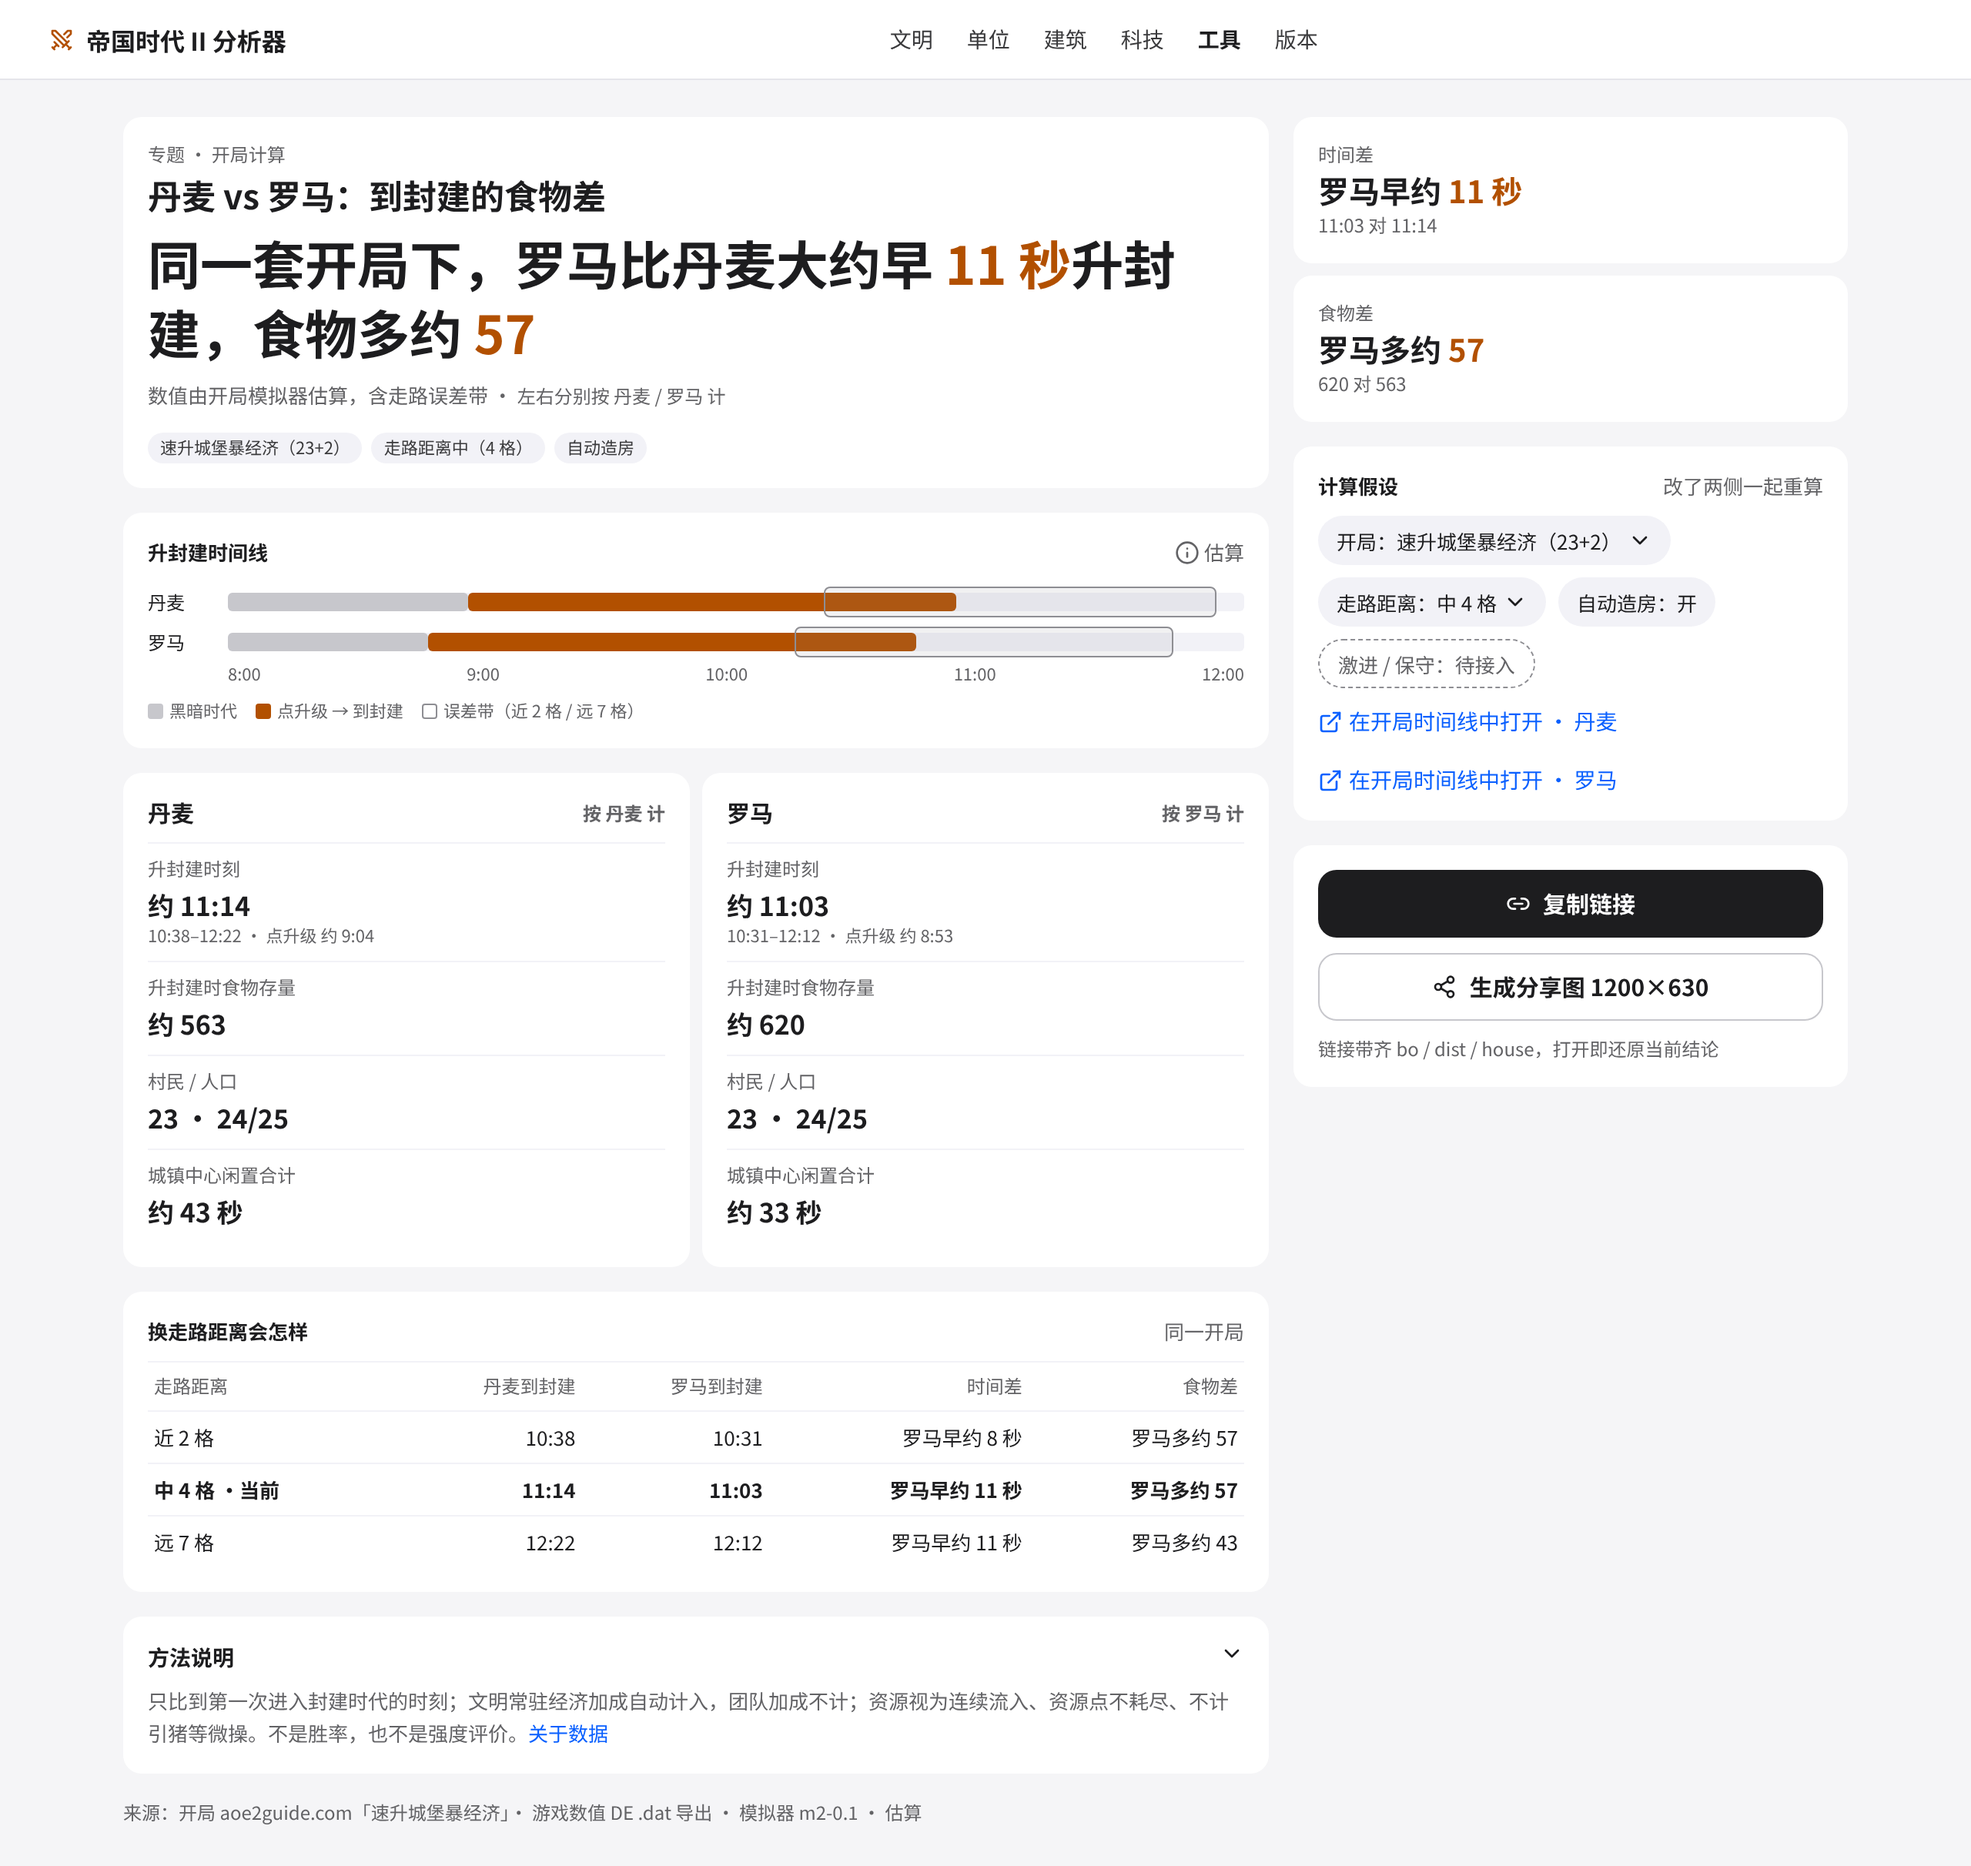
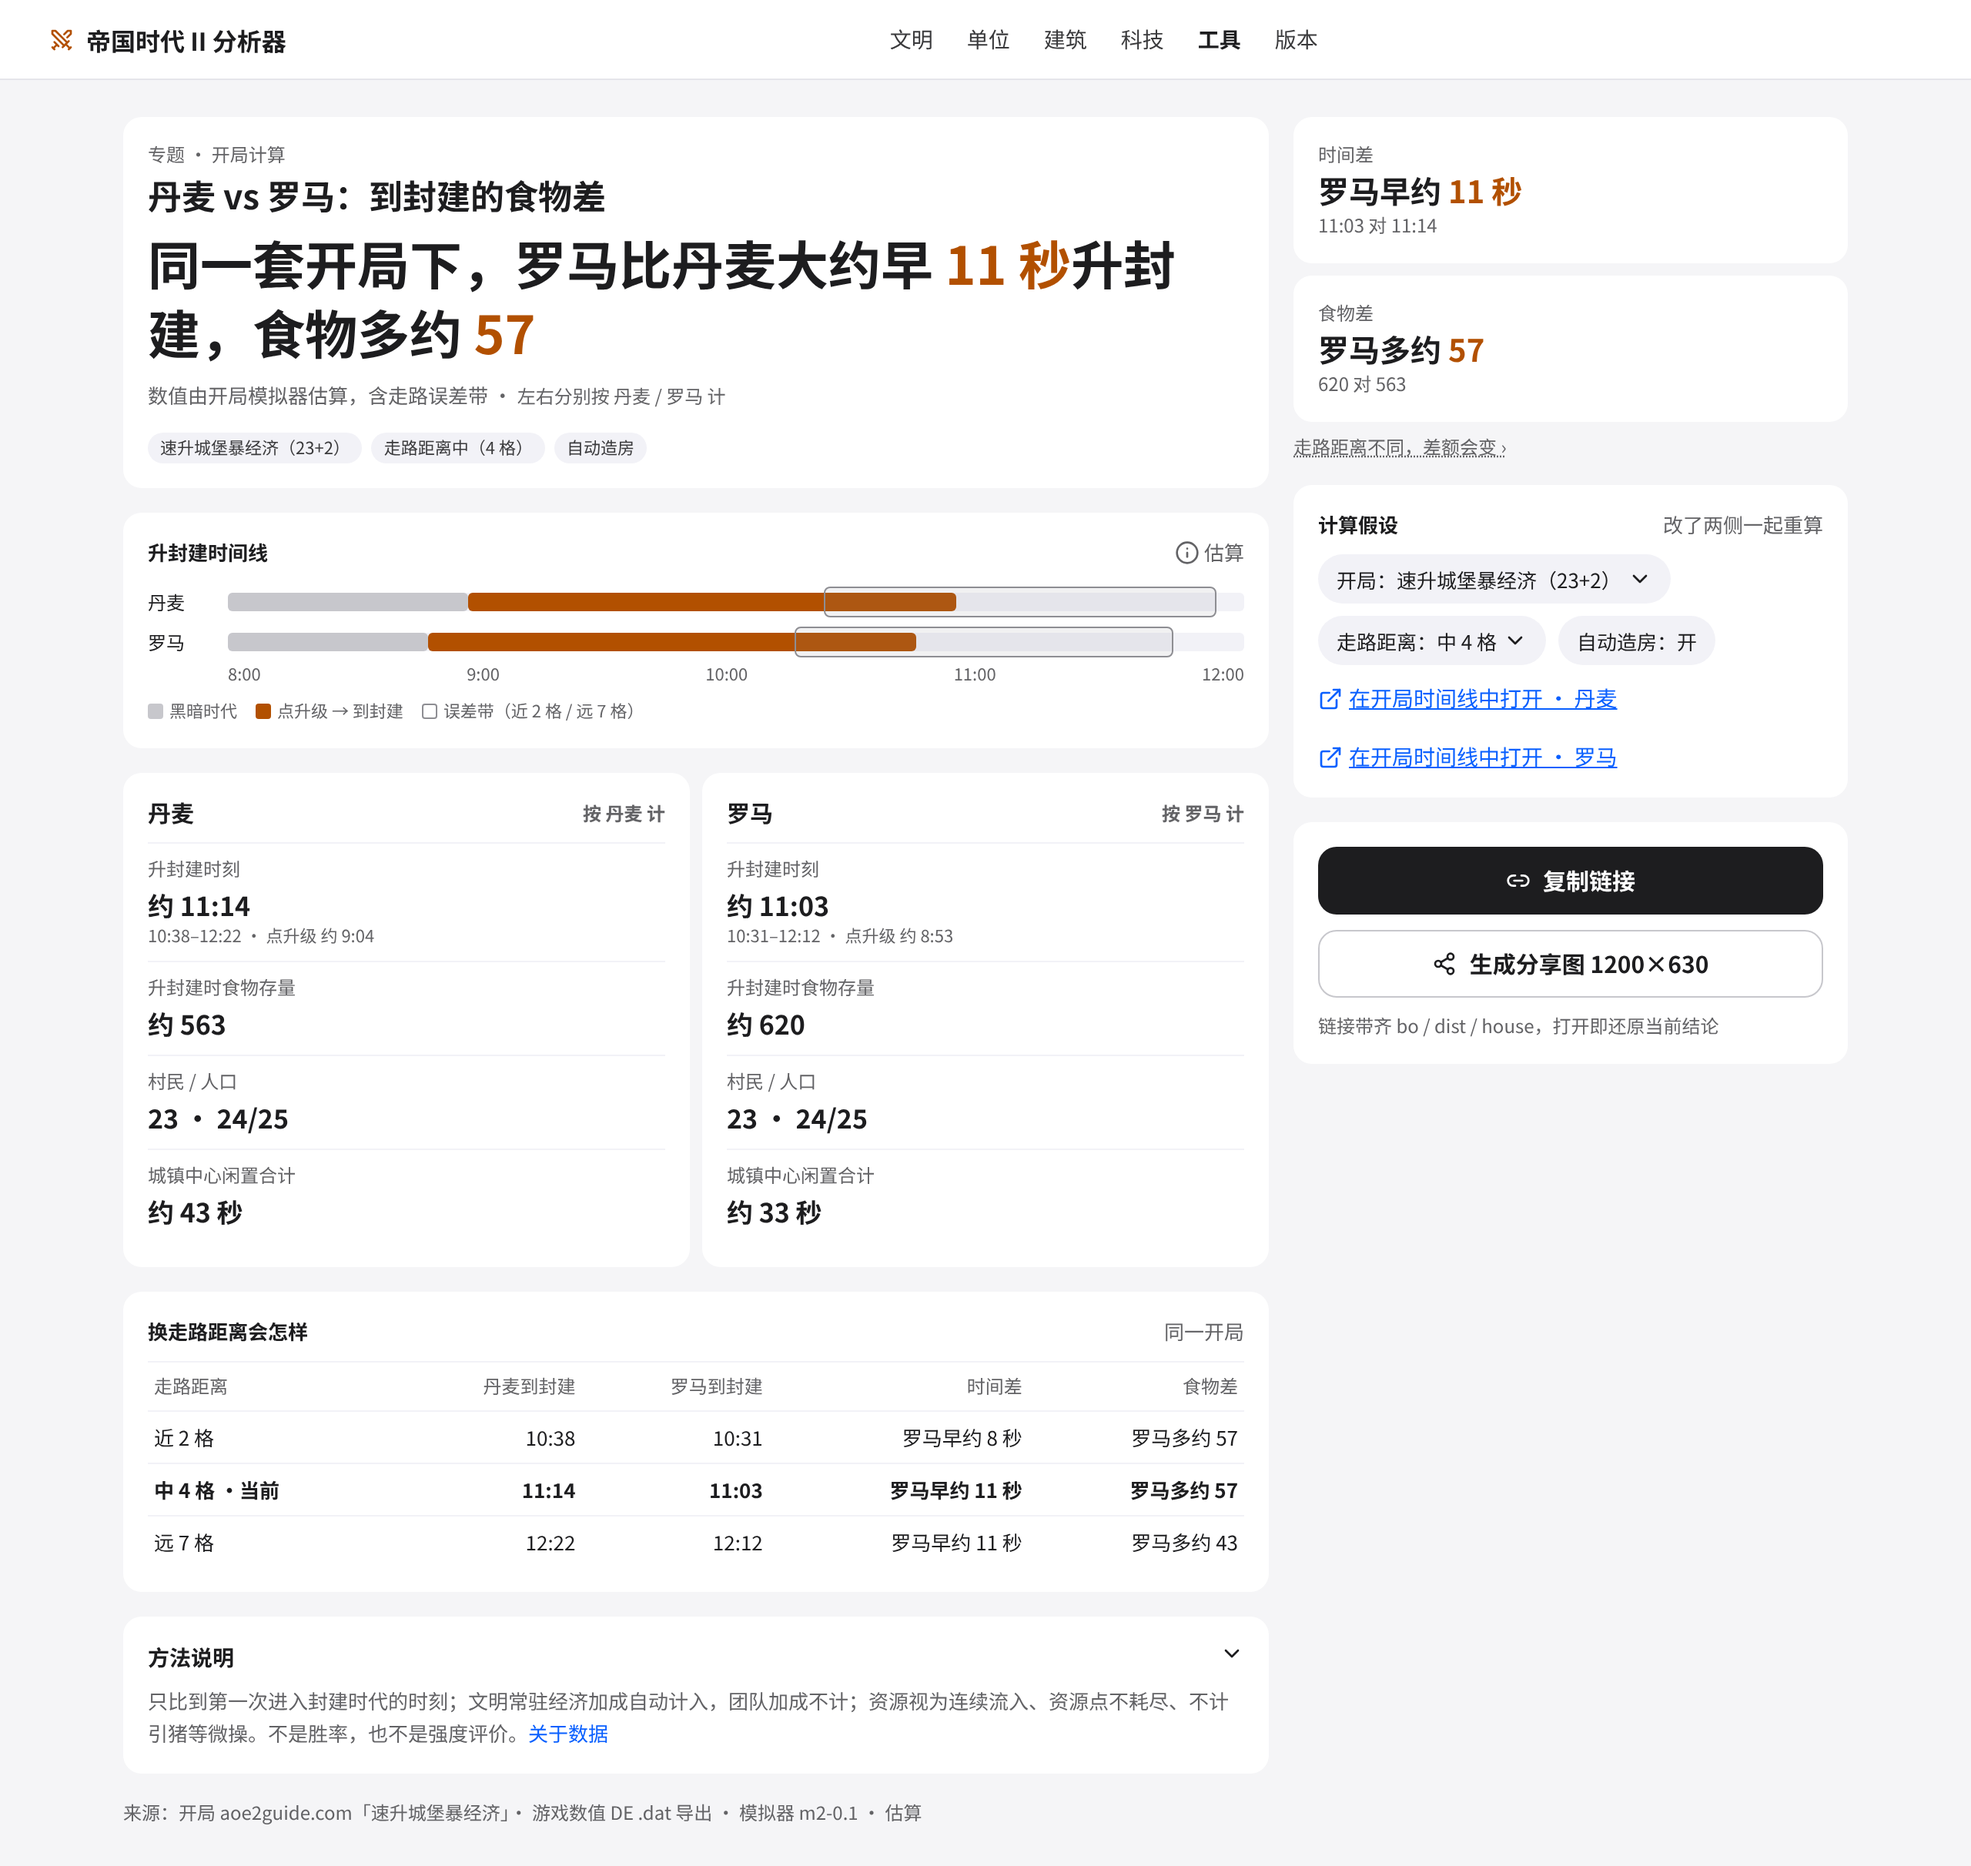
design(#17): v1.1 去激进/保守、差额说明行、时间线真实链接

Changed region(s): [[0.6562, 0.2166, 0.9375, 0.5879], [0.8438, 0.2475, 0.9375, 0.3094]]

diff --git a/docs/design/mockups/issue17-v1/topic-mobile.html b/docs/design/mockups/issue17-v1/topic-mobile.html
@@ -4,7 +4,7 @@
 <div class="big">同一套开局下，罗马比丹麦大约早 <b>11 秒</b>升封建，食物多约 <b>57</b></div>
 <div class="sub">数值由开局模拟器估算，含走路误差带 · <span class="civ">左右分别按 丹麦 / 罗马 计</span></div>
 <div style="margin-top:10px"><span class="tag">速升城堡暴经济（23+2）</span><span class="tag">走路距离中（4 格）</span><span class="tag">自动造房</span></div></div><div class="diff"><div class="card"><div class="mut" style="font-size:12px">时间差</div><div class="v">罗马早约 <b>11 秒</b></div><div class="civ">11:03 对 11:14</div></div>
-<div class="card"><div class="mut" style="font-size:12px">食物差</div><div class="v">罗马多约 <b>57</b></div><div class="civ">620 对 563</div></div></div><div class="card"><div class="ch-h"><b>升封建时间线</b><span class="mut"><i data-i="info"></i> 估算</span></div>
+<div class="card"><div class="mut" style="font-size:12px">食物差</div><div class="v">罗马多约 <b>57</b></div><div class="civ">620 对 563</div></div><a href="https://linhongcun.github.io/aoe2-analyzer/#/builds?bo=fast-castle-boom&amp;dist=4&amp;civ=Romans" style="font-size:12px;color:#636366;text-decoration:underline dotted;grid-column:1/-1">走路距离不同，差额会变 ›</a></div><div class="card"><div class="ch-h"><b>升封建时间线</b><span class="mut"><i data-i="info"></i> 估算</span></div>
 <div class="lane"><span>丹麦</span><div class="track"><div class="seg" style="left:0;width:23.6%;background:#c7c7cc"></div><div class="seg" style="left:23.6%;width:calc(71.7% - 23.6%);background:#B25000"></div><div class="band" style="left:58.6%;width:calc(97.2% - 58.6%)"></div></div></div>
 <div class="lane"><span>罗马</span><div class="track"><div class="seg" style="left:0;width:19.7%;background:#c7c7cc"></div><div class="seg" style="left:19.7%;width:calc(67.8% - 19.7%);background:#B25000"></div><div class="band" style="left:55.7%;width:calc(93.1% - 55.7%)"></div></div></div>
 <div class="axis"><span></span><div><span>8:00</span><span>9:00</span><span>10:00</span><span>11:00</span><span>12:00</span></div></div>
@@ -21,8 +21,8 @@
 <tr><td>近 2 格</td><td>10:38</td><td>10:31</td><td>罗马早约 8 秒</td><td>罗马多约 57</td></tr>
 <tr class="cur"><td>中 4 格 ·当前</td><td>11:14</td><td>11:03</td><td>罗马早约 11 秒</td><td>罗马多约 57</td></tr>
 <tr><td>远 7 格</td><td>12:22</td><td>12:12</td><td>罗马早约 11 秒</td><td>罗马多约 43</td></tr></table></div><div class="card"><div class="ch-h"><b>计算假设</b><span class="mut">改了两侧一起重算</span></div>
-<div class="prm"><span class="chip">开局：速升城堡暴经济（23+2） <i data-i="chev"></i></span><span class="chip">走路距离：中 4 格 <i data-i="chev"></i></span><span class="chip">自动造房：开</span><span class="chip todo">激进 / 保守：待接入</span></div>
-<div style="margin-top:12px;display:flex;gap:18px;flex-wrap:wrap"><span class="lnk"><i data-i="ext"></i>在开局时间线中打开 · 丹麦</span><span class="lnk"><i data-i="ext"></i>在开局时间线中打开 · 罗马</span></div></div><div class="card"><details open><summary>方法说明 <i data-i="chev"></i></summary>
+<div class="prm"><span class="chip">开局：速升城堡暴经济（23+2） <i data-i="chev"></i></span><span class="chip">走路距离：中 4 格 <i data-i="chev"></i></span><span class="chip">自动造房：开</span></div>
+<div style="margin-top:12px;display:flex;gap:18px;flex-wrap:wrap"><a class="lnk" href="https://linhongcun.github.io/aoe2-analyzer/#/builds?bo=fast-castle-boom&amp;dist=4&amp;civ=Danes"><i data-i="ext"></i>在开局时间线中打开 · 丹麦</a><a class="lnk" href="https://linhongcun.github.io/aoe2-analyzer/#/builds?bo=fast-castle-boom&amp;dist=4&amp;civ=Romans"><i data-i="ext"></i>在开局时间线中打开 · 罗马</a></div></div><div class="card"><details open><summary>方法说明 <i data-i="chev"></i></summary>
 <p class="mut" style="margin-top:6px">只比到第一次进入封建时代的时刻；文明常驻经济加成自动计入，团队加成不计；资源视为连续流入、资源点不耗尽、不计引猪等微操。不是胜率，也不是强度评价。<span class="lnk" style="font-size:13px">关于数据</span></p></details></div><div class="src">来源：开局 aoe2guide.com「速升城堡暴经济」· 游戏数值 DE .dat 导出 · 模拟器 m2-0.1 · 估算</div></div>
 <div style="position:fixed;left:0;width:390px;bottom:0;height:90px;background:rgba(255,255,255,.96);border-top:1px solid #e5e5ea;padding:12px 16px 0;display:flex;gap:10px"><div class="btn pri" style="flex:1"><i data-i="link"></i>复制链接</div><div class="btn sec" style="width:120px"><i data-i="share"></i>分享图</div></div>
 </div><script src=icons.js></script>

diff --git a/docs/design/mockups/issue17-v1/topic-desktop.html b/docs/design/mockups/issue17-v1/topic-desktop.html
@@ -22,6 +22,6 @@
 <tr><td>远 7 格</td><td>12:22</td><td>12:12</td><td>罗马早约 11 秒</td><td>罗马多约 43</td></tr></table></div><div class="card"><details open><summary>方法说明 <i data-i="chev"></i></summary>
 <p class="mut" style="margin-top:6px">只比到第一次进入封建时代的时刻；文明常驻经济加成自动计入，团队加成不计；资源视为连续流入、资源点不耗尽、不计引猪等微操。不是胜率，也不是强度评价。<span class="lnk" style="font-size:13px">关于数据</span></p></details></div><div class="src">来源：开局 aoe2guide.com「速升城堡暴经济」· 游戏数值 DE .dat 导出 · 模拟器 m2-0.1 · 估算</div></div>
 <div style="display:flex;flex-direction:column;gap:16px;position:sticky;top:16px"><div class="diff" style="grid-template-columns:1fr"><div class="card"><div class="mut" style="font-size:12px">时间差</div><div class="v">罗马早约 <b>11 秒</b></div><div class="civ">11:03 对 11:14</div></div>
-<div class="card"><div class="mut" style="font-size:12px">食物差</div><div class="v">罗马多约 <b>57</b></div><div class="civ">620 对 563</div></div></div><div class="card"><div class="ch-h"><b>计算假设</b><span class="mut">改了两侧一起重算</span></div>
-<div class="prm"><span class="chip">开局：速升城堡暴经济（23+2） <i data-i="chev"></i></span><span class="chip">走路距离：中 4 格 <i data-i="chev"></i></span><span class="chip">自动造房：开</span><span class="chip todo">激进 / 保守：待接入</span></div>
-<div style="margin-top:12px;display:flex;gap:18px;flex-wrap:wrap"><span class="lnk"><i data-i="ext"></i>在开局时间线中打开 · 丹麦</span><span class="lnk"><i data-i="ext"></i>在开局时间线中打开 · 罗马</span></div></div><div class="card" style="display:flex;flex-direction:column;gap:10px"><div class="btn pri"><i data-i="link"></i>复制链接</div><div class="btn sec"><i data-i="share"></i>生成分享图 1200×630</div><div class="civ">链接带齐 bo / dist / house，打开即还原当前结论</div></div></div></div><script src=icons.js></script>
+<div class="card"><div class="mut" style="font-size:12px">食物差</div><div class="v">罗马多约 <b>57</b></div><div class="civ">620 对 563</div></div><a href="https://linhongcun.github.io/aoe2-analyzer/#/builds?bo=fast-castle-boom&amp;dist=4&amp;civ=Romans" style="font-size:12px;color:#636366;text-decoration:underline dotted;grid-column:1/-1">走路距离不同，差额会变 ›</a></div><div class="card"><div class="ch-h"><b>计算假设</b><span class="mut">改了两侧一起重算</span></div>
+<div class="prm"><span class="chip">开局：速升城堡暴经济（23+2） <i data-i="chev"></i></span><span class="chip">走路距离：中 4 格 <i data-i="chev"></i></span><span class="chip">自动造房：开</span></div>
+<div style="margin-top:12px;display:flex;gap:18px;flex-wrap:wrap"><a class="lnk" href="https://linhongcun.github.io/aoe2-analyzer/#/builds?bo=fast-castle-boom&amp;dist=4&amp;civ=Danes"><i data-i="ext"></i>在开局时间线中打开 · 丹麦</a><a class="lnk" href="https://linhongcun.github.io/aoe2-analyzer/#/builds?bo=fast-castle-boom&amp;dist=4&amp;civ=Romans"><i data-i="ext"></i>在开局时间线中打开 · 罗马</a></div></div><div class="card" style="display:flex;flex-direction:column;gap:10px"><div class="btn pri"><i data-i="link"></i>复制链接</div><div class="btn sec"><i data-i="share"></i>生成分享图 1200×630</div><div class="civ">链接带齐 bo / dist / house，打开即还原当前结论</div></div></div></div><script src=icons.js></script>

diff --git a/docs/design/mockups/issue17-v1/SPEC.md b/docs/design/mockups/issue17-v1/SPEC.md
@@ -18,10 +18,17 @@
 结论（中 4 格）：罗马早 10.5 s（显示「约 11 秒」），食物多 57。主语按 Steve 规格取占优方，不写负号。
 
 ## 待接入
-- `var`（激进/保守）：buildSim 目前 variant 恒为 null，无此参数 → 参数区显示「待接入」灰虚线 chip。
+- `var`（激进/保守）：Steve 定为整项隐藏（buildSim 无此参数），界面不出现该控件。
 - 分享图 og 1200×630：沿用 #19 横版模板，数字填上表结论。
 
 ## 结构
 结论卡（标题 + 一句话 + 估算说明 + 参数 tag）→ 差额卡（时间差/食物差，白话主语）→ 升封建时间线（黑暗时代灰 / 升级中琥珀 / 误差带框）→ 两列对比卡（每列右上「按 {文明} 计」12px muted）→ 走路距离对照表 → 计算假设（可改，改了两侧重算；「在开局时间线中打开 · 丹麦/罗马」各带 `#/builds?bo=…&civ=…&dist=…&house=…`）→ 方法说明（折叠，链关于数据）→ 来源行。
 手机：底部固定栏 90px（与 issue39-mobile 一致：主按钮「复制链接」黑底 + 次按钮「分享图」）；首屏不滚动可见结论、差额、时间线。电脑：右栏 sticky（差额 / 假设 / 复制链接 / 生成分享图）。
 分享 description 用「走路距离中」。界面不出现「禁止写死」。
+
+## v1.1 改动（Steve 决定）
+- 去掉激进/保守控件。
+- 差额卡只显示当前走路档；下方 12px muted 可点一行「走路距离不同，差额会变 ›」→ 开局时间线。
+- 路由（Linus 确认）：`#/builds?bo=&civ=&dist=&house=`；civ 英文 id（Generic=通用）；dist 1–10 默认 4；house=0 为关（开时省略）；step=N 从 0 起。
+- 链接：丹麦 `#/builds?bo=fast-castle-boom&dist=4&civ=Danes`；罗马 `…&civ=Romans`；差额说明行指向罗马（领先方），dist 跟随当前档。
+- 标题待 Kent 核实丹麦加成后再定，本版不改。
